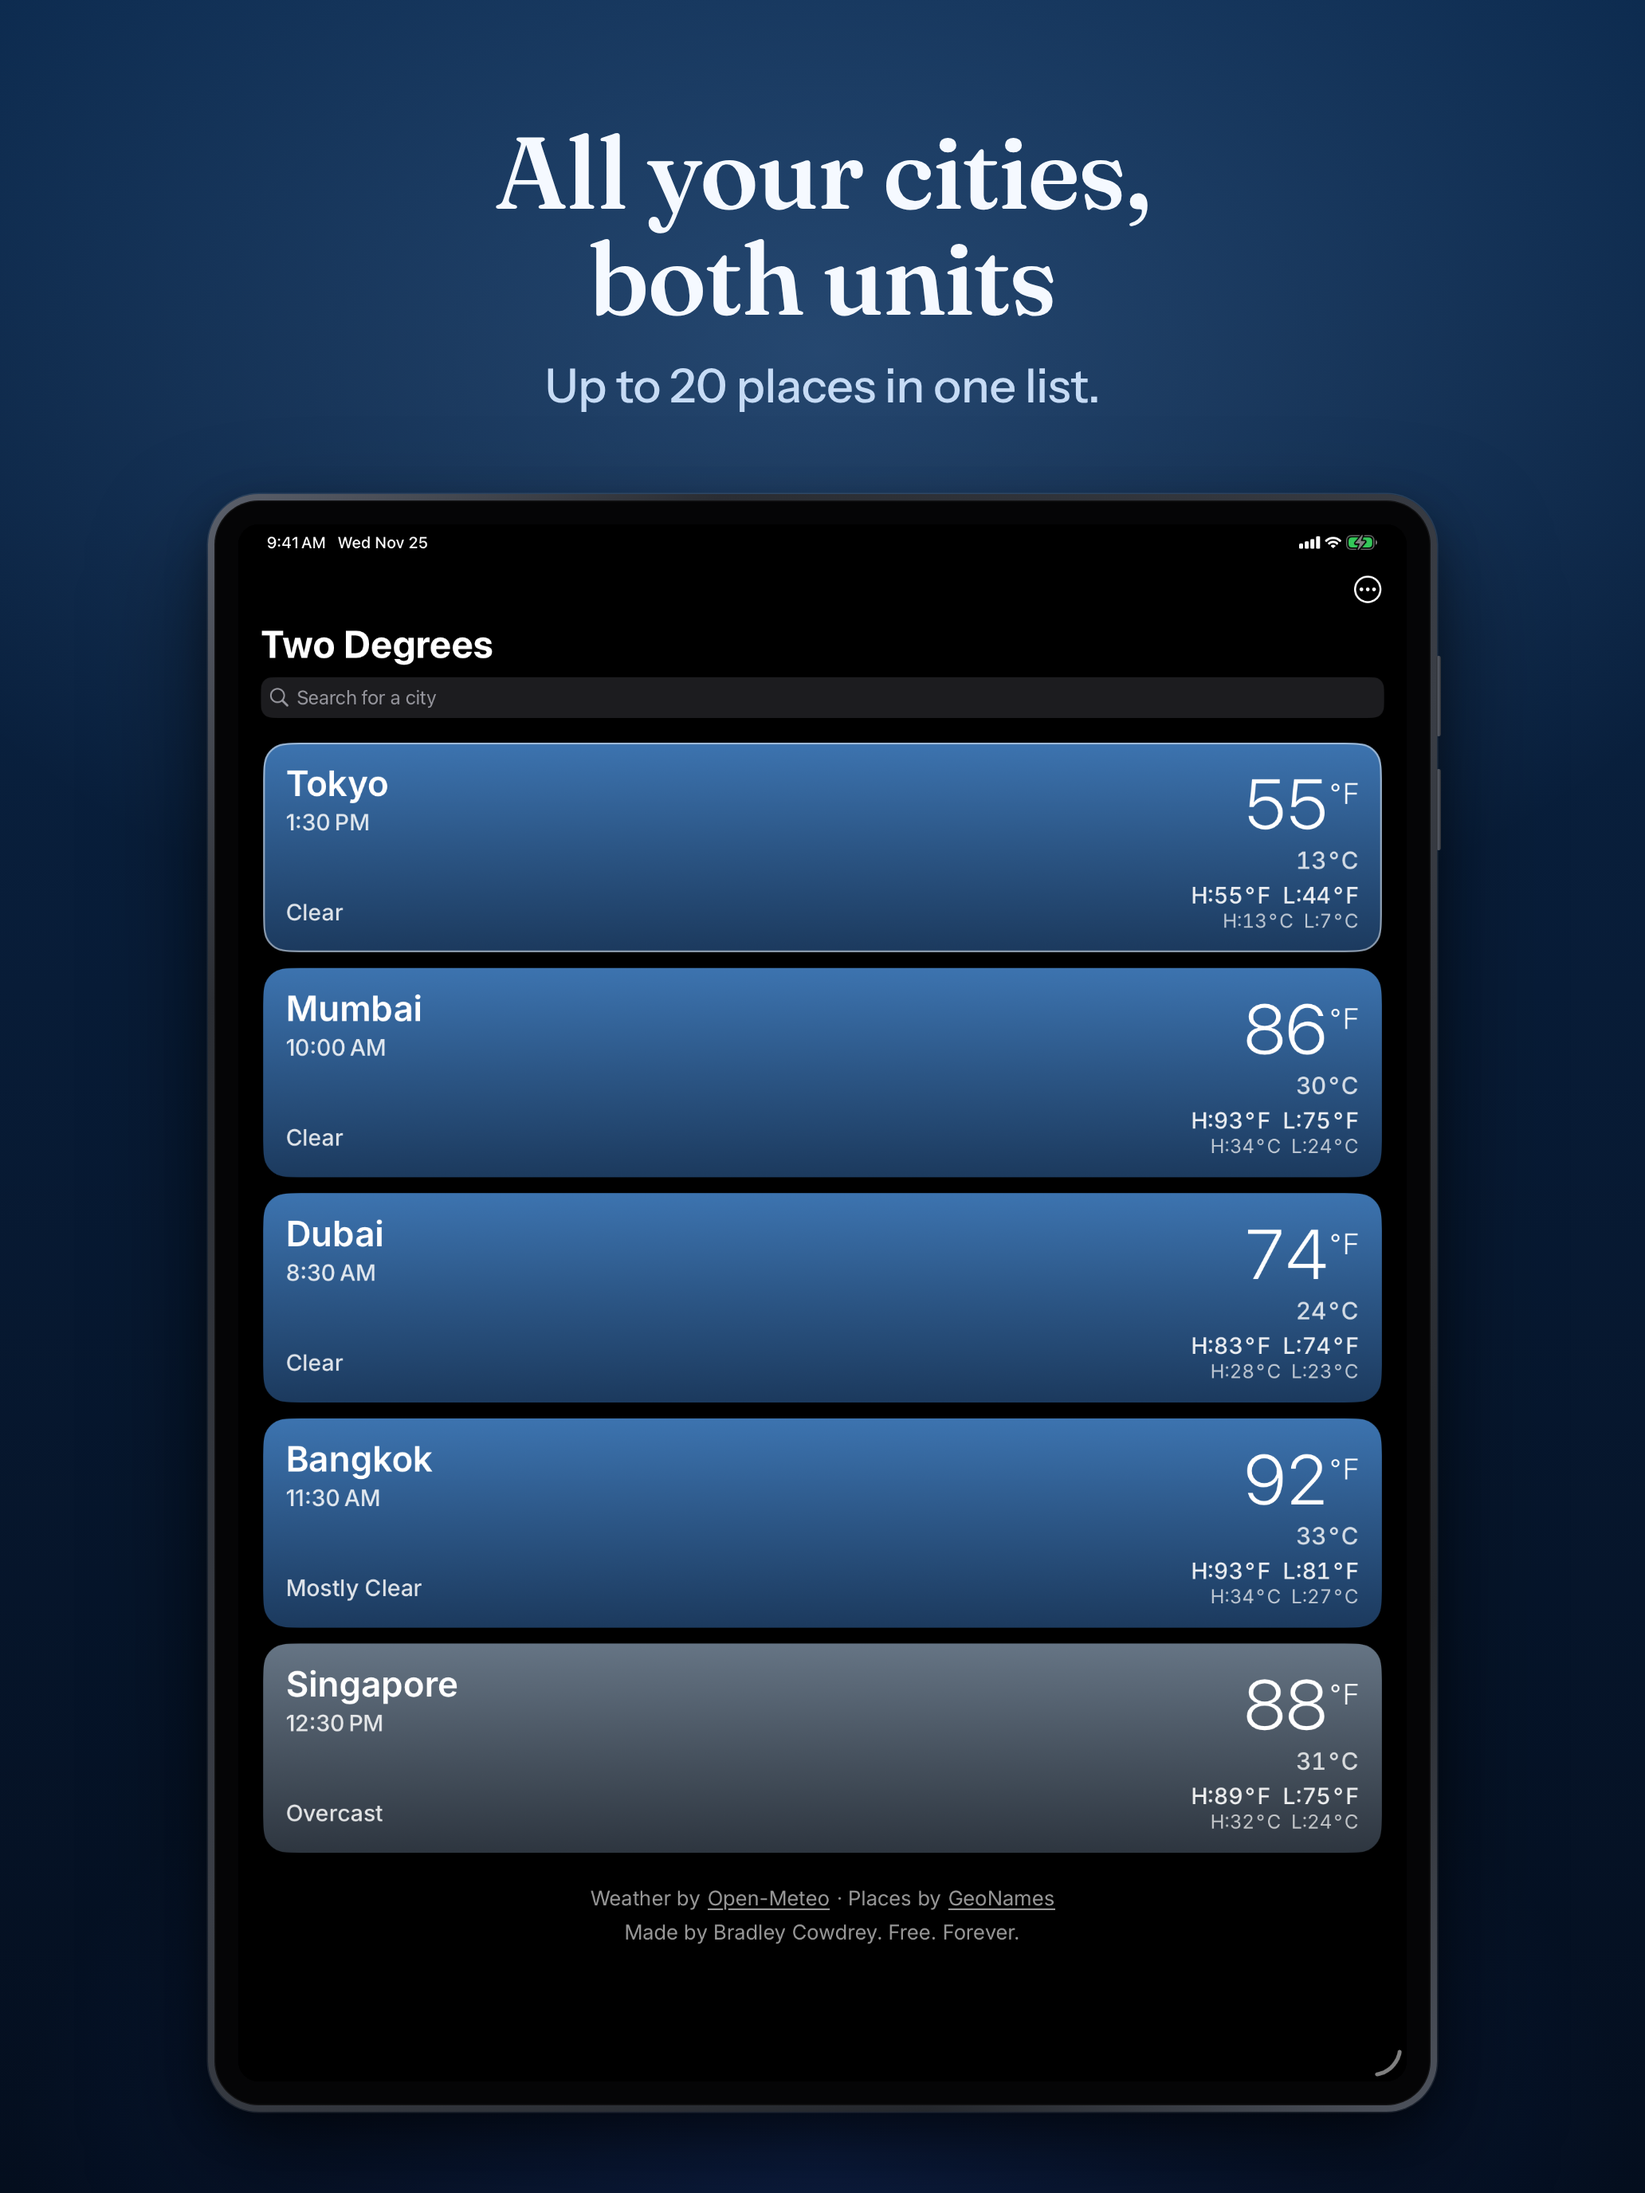
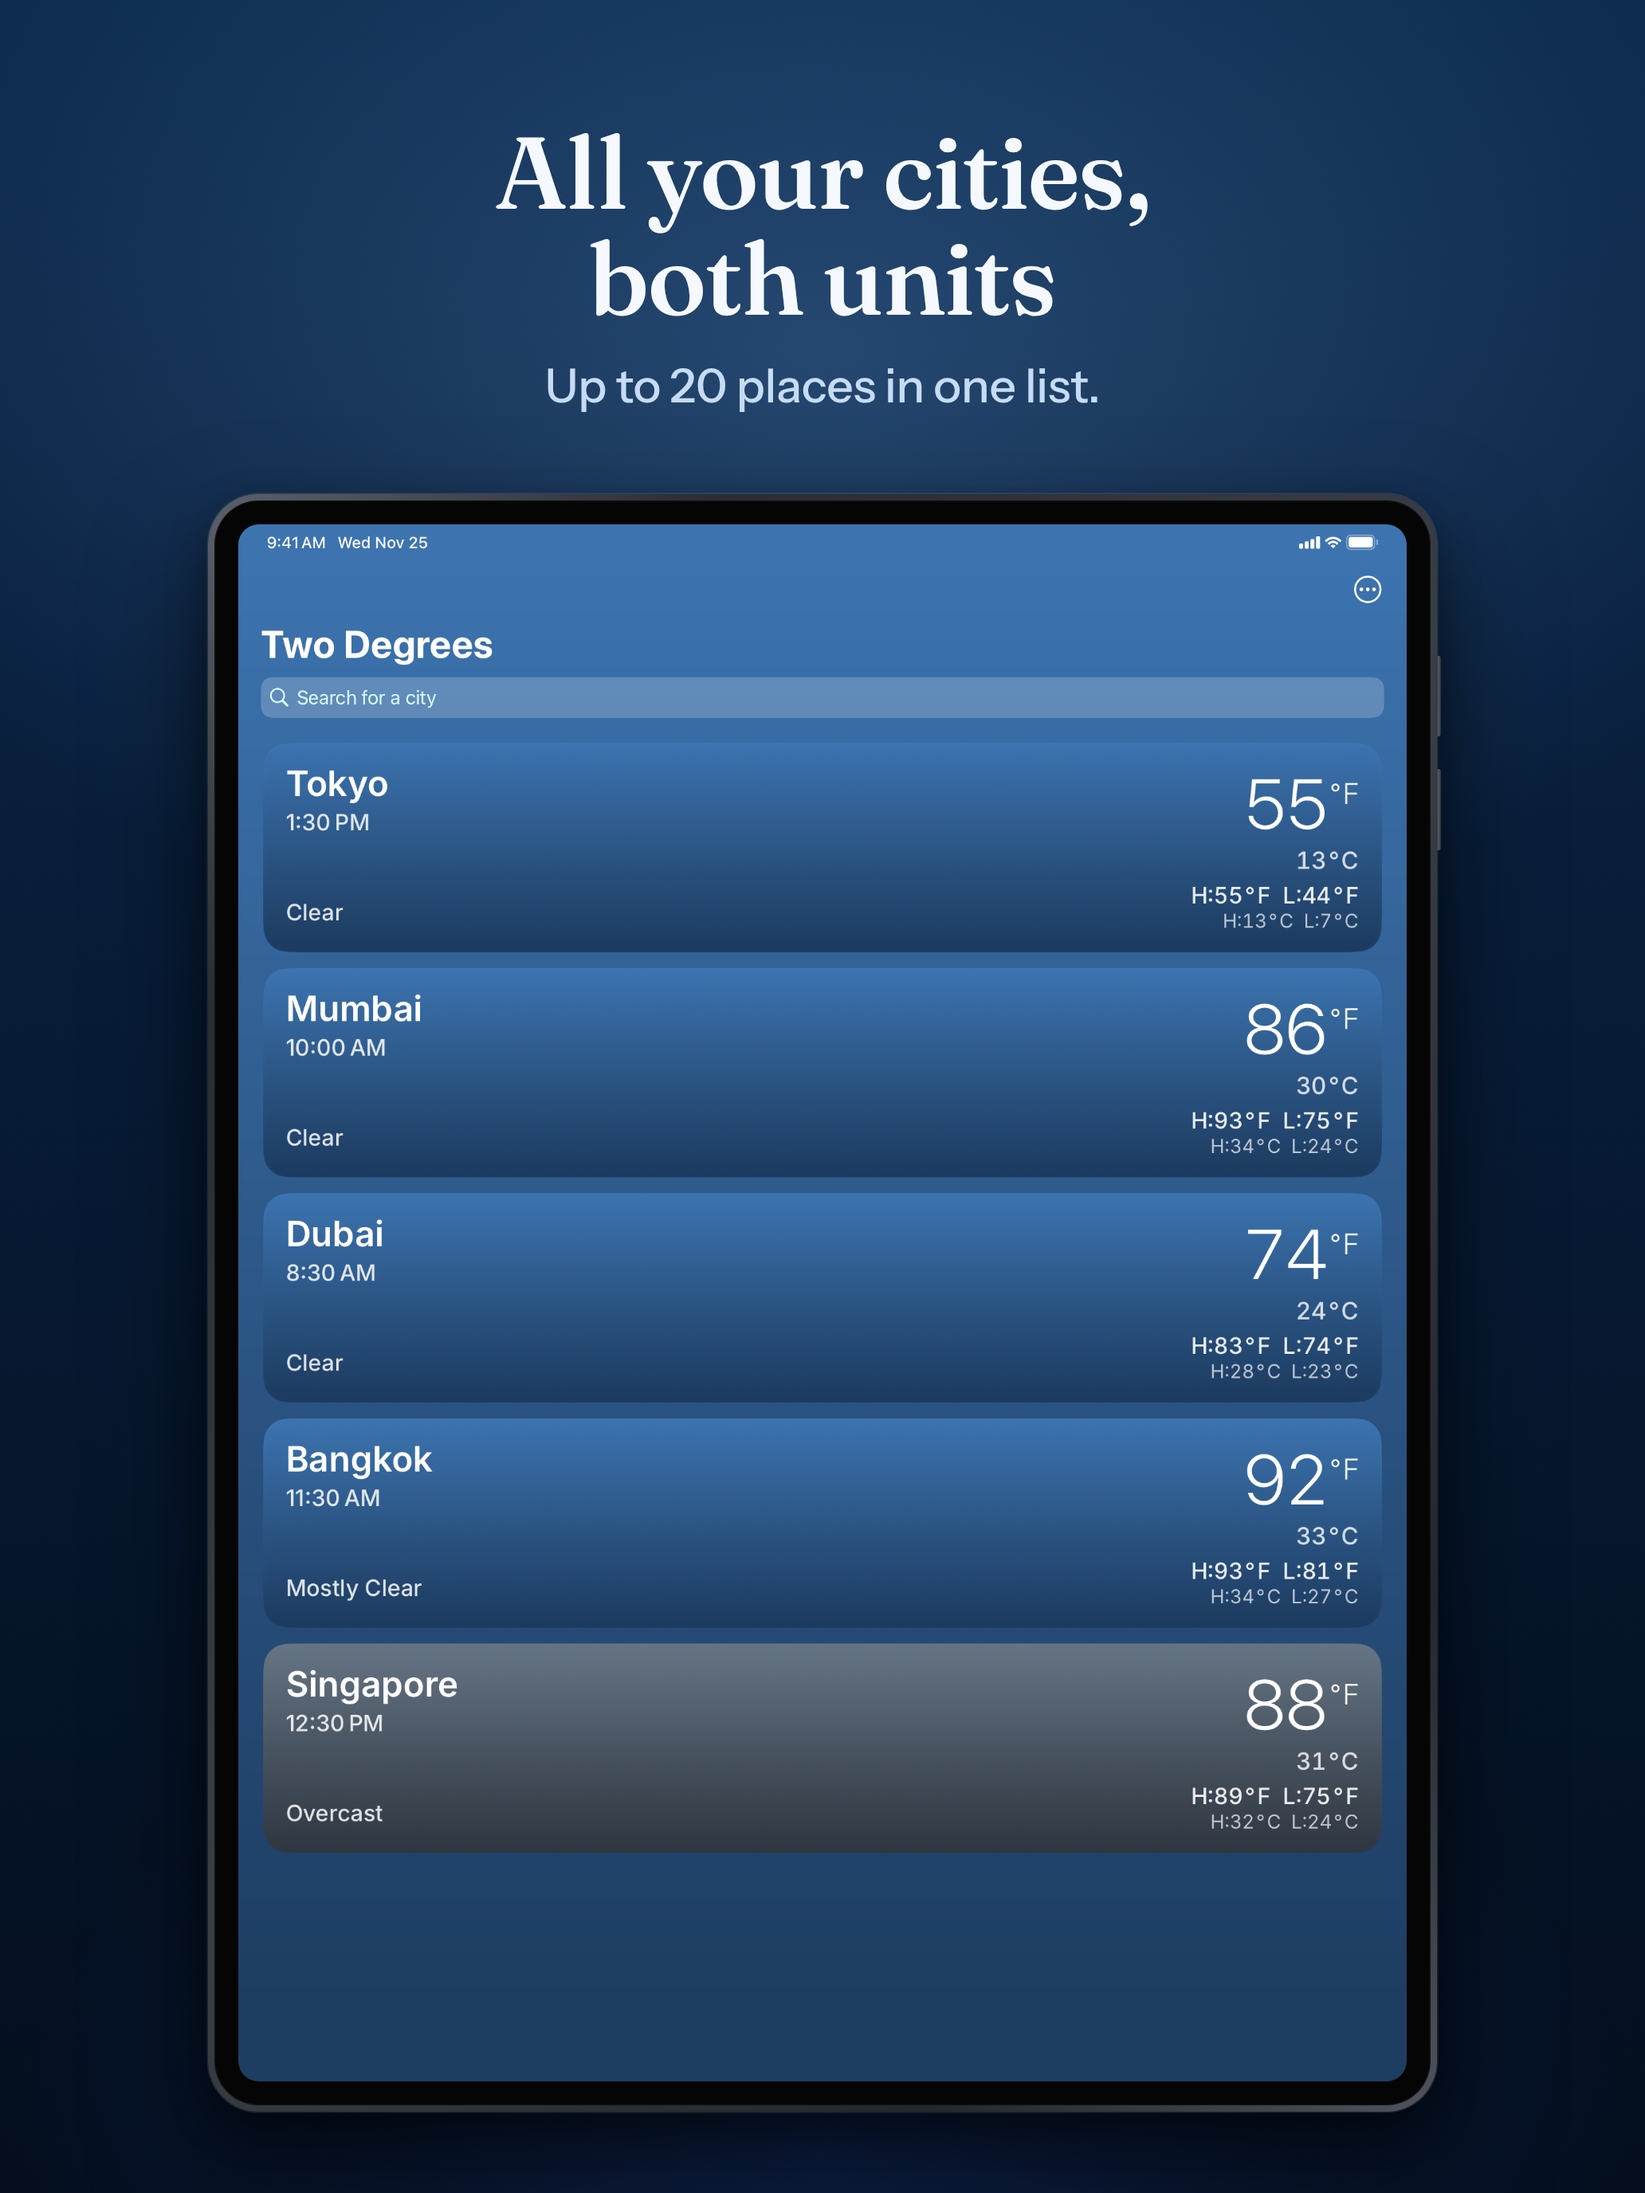
App Store pictures: the approved iPhone and iPad set, on the master template
Restores the finished screens (the 10-day list from its title, no empty
Averages tile, the city list on the app's sky, a full battery), framed
by scripts/app-store-screens.mjs with the master copy and its
twodegrees colours. The Mac set uses the same colours.
appstore/listing.md describes the two steps.

Claude-Session: https://claude.ai/code/session_014XBPgVSosxkwyDptpY7qX5

Changed region(s): [[0.124, 0.2188, 0.8682, 0.9688]]

diff --git a/scripts/make-store-screenshots.py b/scripts/make-store-screenshots.py
@@ -2124,7 +2124,7 @@ def main():
     ap = argparse.ArgumentParser(description=__doc__, formatter_class=argparse.RawDescriptionHelpFormatter)
     ap.add_argument("raw", nargs="?", default=DEFAULT_RAW, help="folder of iPhone/iPad captures and widget renders")
     ap.add_argument("--mac", default=DEFAULT_MAC, help="folder (or git:<branch>) of Mac captures")
-    ap.add_argument("--only", default="mac", help="comma list of iphone, ipad, mac (iPhone and iPad: the old style)")
+    ap.add_argument("--only", default="mac", help="comma list of iphone, ipad, mac (with --screens: the finished screens for the family template)")
     ap.add_argument("--screens", help="write only the finished screens (iphone-N, ipad-N) and MacBooks (mac-N, "
                     "transparent) to this folder, for scripts/store-frames.mjs (the family template)")
     a = ap.parse_args()

diff --git a/appstore/listing.md b/appstore/listing.md
@@ -84,13 +84,20 @@ fahrenheit,celsius,temperature,forecast,widget,lock screen,hourly,10 day,rain,uv
 
 On the Cowdrey family standard (fonts, sizes and rules in `design/app-store/README.md` in
 [bradleycowdrey/cowdrey-one](https://github.com/bradleycowdrey/cowdrey-one/blob/main/design/app-store/README.md)):
-the real app, framed by `design/app-store/store-frame.mjs` (a word-for-word copy of the master) in Two Degrees'
-sky blue. `.github/workflows/appstore-screenshots.yml` photographs the app in the Simulator and frames it
-(`scripts/app-store-screens.mjs`), on the `appstore-screenshots` branch (`framed/`); copy those into
-`appstore/screenshots/`, which "App Store listing" uploads:
+the real app, framed in Two Degrees' sky blue (`THEMES.twodegrees`).
+`.github/workflows/appstore-screenshots.yml` photographs the app in the Simulator (one frozen forecast for every
+launch) and publishes the captures to the `appstore-screenshots` branch, with a quick framing of them in `framed/`.
+The shipped set is made from those captures in two steps:
+1. `python3 scripts/make-store-screenshots.py --screens DIR --only iphone,ipad,mac` finishes the screens: the 10-day list from its title,
+   the tiles without the empty Averages tile, the city list on the app's sky, a full battery. Only layout is
+   changed; the app's own numbers and labels are never edited.
+2. `node scripts/app-store-screens.mjs --raw=DIR` frames the iPhone and iPad screens with
+   `design/app-store/store-frame.mjs` (a word-for-word copy of the master), and `node scripts/store-frames.mjs
+   --screens DIR` frames the Mac set.
+
+`appstore/screenshots/` is what "App Store listing" uploads:
 - iPhone 6.9" (1320 × 2868): `iphone-1.png` … `iphone-5.png`
 - iPad 13" (2064 × 2752): `ipad-1.png` … `ipad-5.png` (needed because the app also runs on iPad)
-- Mac (2880 × 1800): `mac-1.png` … `mac-5.png`, not yet on the standard: the Mac app is a 492 pt wide menu bar
-  panel, which doesn't fit the template's 1180 × 700 pt window. They're MacBooks from
-  `scripts/make-store-screenshots.py --screens DIR`, framed by `scripts/store-frames.mjs` with
-  `scripts/store-frame.mjs`, an earlier copy of the template with a MacBook option (`story.bare`).
+- Mac (2880 × 1800): `mac-1.png` … `mac-5.png`: the family's type, sizes and colours, with a MacBook instead of
+  the template's window (the Mac app is a 492 pt wide menu bar panel, which doesn't fit its 1180 × 700 pt window).
+  `scripts/store-frame.mjs` is the master template plus that MacBook option (`story.bare`) and the same colours.
